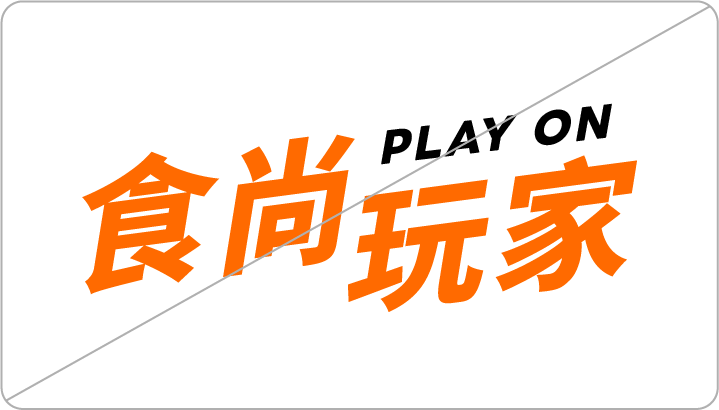
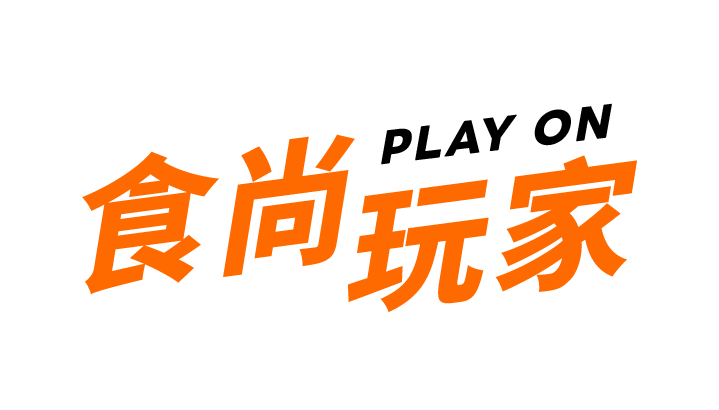
1-6 換新圖（無斜線版），改用 CSS 對角線

diff --git a/docs/index.html b/docs/index.html
@@ -215,6 +215,8 @@
   .dont-card{position:relative;background:var(--white);border-radius:var(--r);overflow:hidden;}
   .dont-card img{width:75%;height:auto;display:block;margin:0 auto;transition:opacity .28s ease;}
   .dont-card:hover img{opacity:.4;}
+  .dont-card::before{content:"";position:absolute;inset:0;background:linear-gradient(to bottom right,transparent calc(50% - 1px),rgba(0,0,0,.22) 50%,transparent calc(50% + 1px));z-index:1;pointer-events:none;transition:opacity .28s ease;}
+  .dont-card:hover::before{opacity:0;}
   .dont-badge{position:absolute;top:12px;left:12px;width:22px;height:22px;background:#C0392B;color:#fff;border-radius:50%;display:flex;align-items:center;justify-content:center;font-size:12px;font-weight:700;z-index:2;line-height:1;}
   .dont-label{position:absolute;bottom:0;left:0;right:0;background:rgba(26,26,26,.9);padding:14px 16px;transform:translateY(100%);transition:transform .28s ease;}
   .dont-card:hover .dont-label{transform:translateY(0);}

diff --git a/食尚玩家_Brand_Guideline_WEB_v1.html b/食尚玩家_Brand_Guideline_WEB_v1.html
@@ -215,6 +215,8 @@
   .dont-card{position:relative;background:var(--white);border-radius:var(--r);overflow:hidden;}
   .dont-card img{width:75%;height:auto;display:block;margin:0 auto;transition:opacity .28s ease;}
   .dont-card:hover img{opacity:.4;}
+  .dont-card::before{content:"";position:absolute;inset:0;background:linear-gradient(to bottom right,transparent calc(50% - 1px),rgba(0,0,0,.22) 50%,transparent calc(50% + 1px));z-index:1;pointer-events:none;transition:opacity .28s ease;}
+  .dont-card:hover::before{opacity:0;}
   .dont-badge{position:absolute;top:12px;left:12px;width:22px;height:22px;background:#C0392B;color:#fff;border-radius:50%;display:flex;align-items:center;justify-content:center;font-size:12px;font-weight:700;z-index:2;line-height:1;}
   .dont-label{position:absolute;bottom:0;left:0;right:0;background:rgba(26,26,26,.9);padding:14px 16px;transform:translateY(100%);transition:transform .28s ease;}
   .dont-card:hover .dont-label{transform:translateY(0);}
